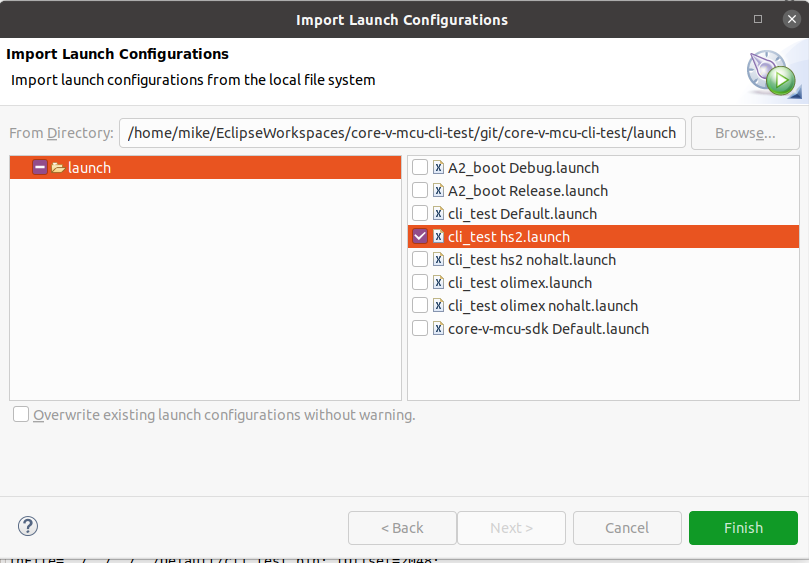
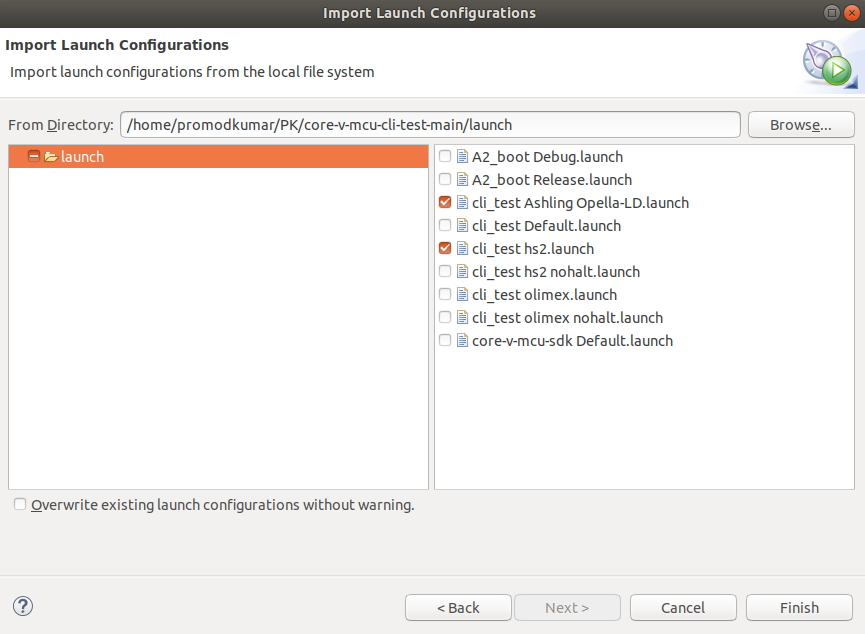
README updated with Ashling Opella-LD Launch details

diff --git a/README.md b/README.md
@@ -121,8 +121,9 @@ With `cli_test` selected in the Project Explorer pane, click on Build (the hamme
 
 ### Step 7: Import launch configuration
 
-This step pulls in the launch configurations which are configured to use **OpenOCD** and the [JTAG-HS2](https://digilent.com/shop/jtag-hs2-programming-cable/) programmer.
-Reminder: the instructions for connecting the HS2 to the Nexys A7 can be found in the CORE-V-MCU Quick Start Guide (a link can be found at the top of this README).
+This step pulls in the launch configurations which are configured to use **OpenOCD** with the [JTAG-HS2](https://digilent.com/shop/jtag-hs2-programming-cable/) programmer or the [Ashling Opella-LD](https://www.ashling.com/support-opella-ld/).
+
+Reminder: the instructions for connecting the HS2 to the Nexys A7 and the Ashling Opella-LD to the Nexys A7 can be found in the CORE-V-MCU Quick Start Guide (a link can be found at the top of this README) and the Ashling Opella-LD User Manual can be found [here](https://www.ashling.com/wp-content/uploads/Opella-LD_User_Manual.pdf).
 
 If your hardware setup is different, you can either ignore this step and create your own, or use this step and modify to fit your configuration.
 
@@ -137,11 +138,11 @@ Select 'Run/Debug' and then 'Launch Configurations'.
 ![step12](./images/12-SelectLaunchConfig.png)
 
 #### Step 7.3:
-Here you will fetch the HS2 launch configuration from your clone of core-v-mcu-cli-test repository.
+Here you will fetch the HS2 or the Ashling Opella-LD launch configuration from your clone of core-v-mcu-cli-test repository.
 In the `core-v-mcu-cli-test` repo there is a set of launch configurations in the `launch` directory.
 Use the `Browse...` button to navigate to the git directory that was chosen as the 'Local Destination' in **Step 4.7** and then `launch`.
 
-Select 'launch' and 'cli_test hs2.lauch'.
+Select 'launch' and choose 'cli_test hs2.lauch' or 'cli_test Ashling Opella-LD.launch'.
 
 ![step14](./images/14-SelectLaunchConfigurations.png)
 
@@ -156,7 +157,11 @@ Edit the debug configurations and in the Startup tab scroll down to the Run/Rest
 ![step16](./images/RunRestart.png)
 
 #### Step 7.7:
-Under `GDB OpenOCD Debugging` select `cli_test Default` and then `Debug`.
+Under `GDB OpenOCD Debugging` 
+
+  i) select `cli_test Default` and then `Debug`to run HS2 to the Nexys A7.
+  
+  ii) select `cli_test Ashling Opella-LD` and then `Debug`to run Opella-LD to the Nexys A7.
 
 ![step17](./images/16-cli_testDefault.png)
 
